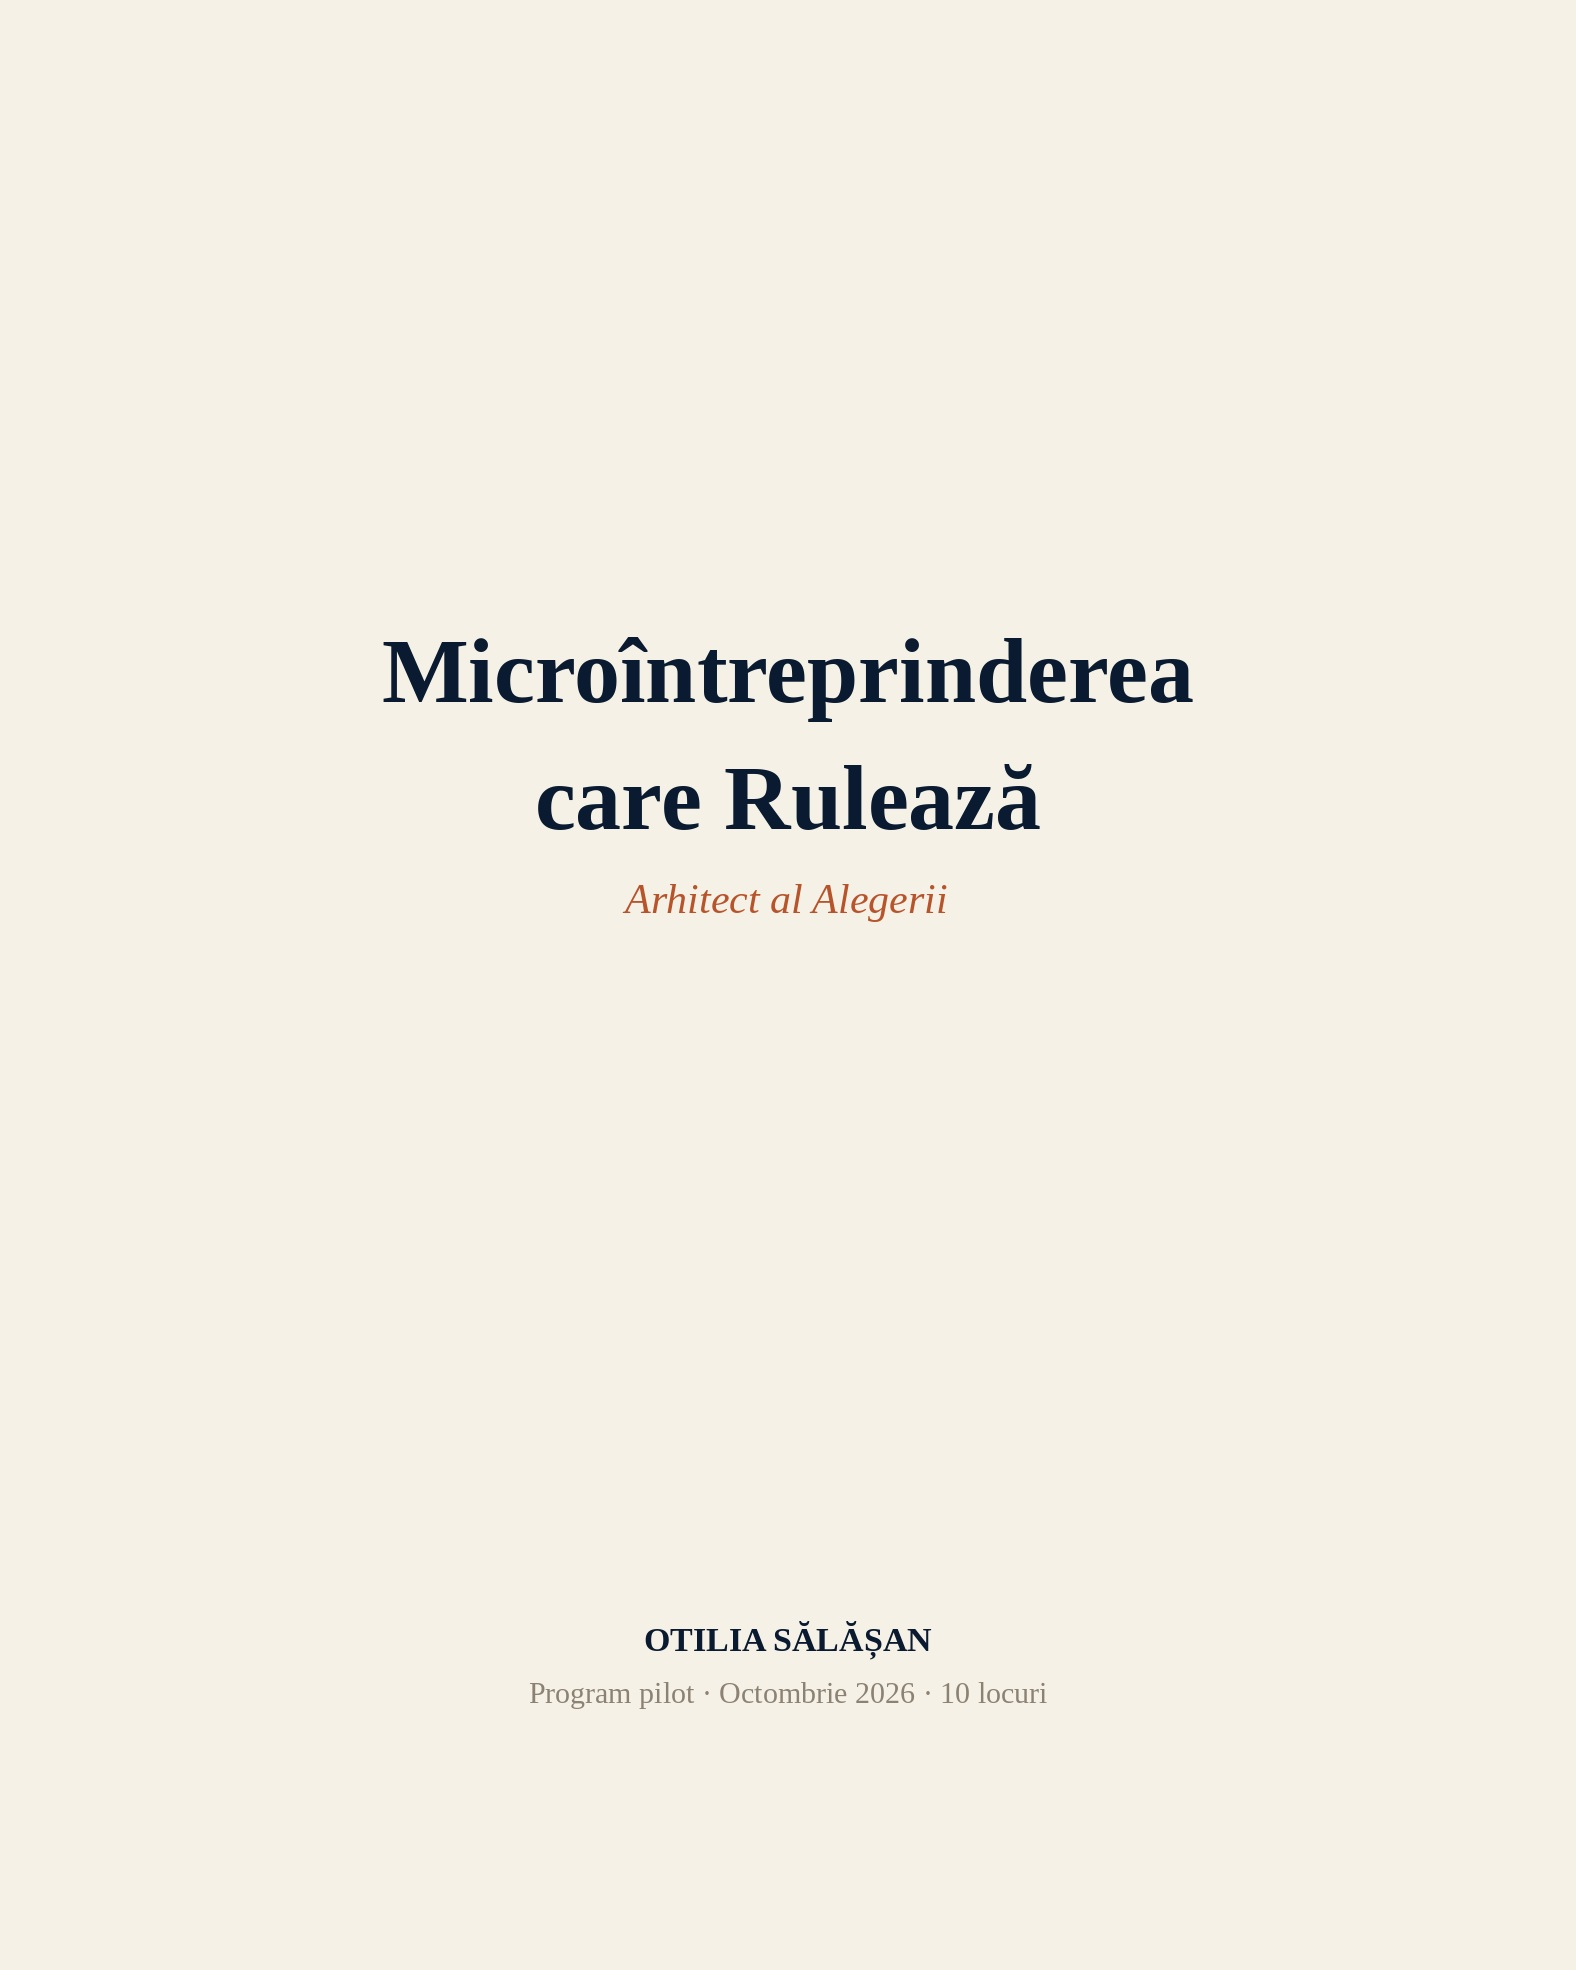
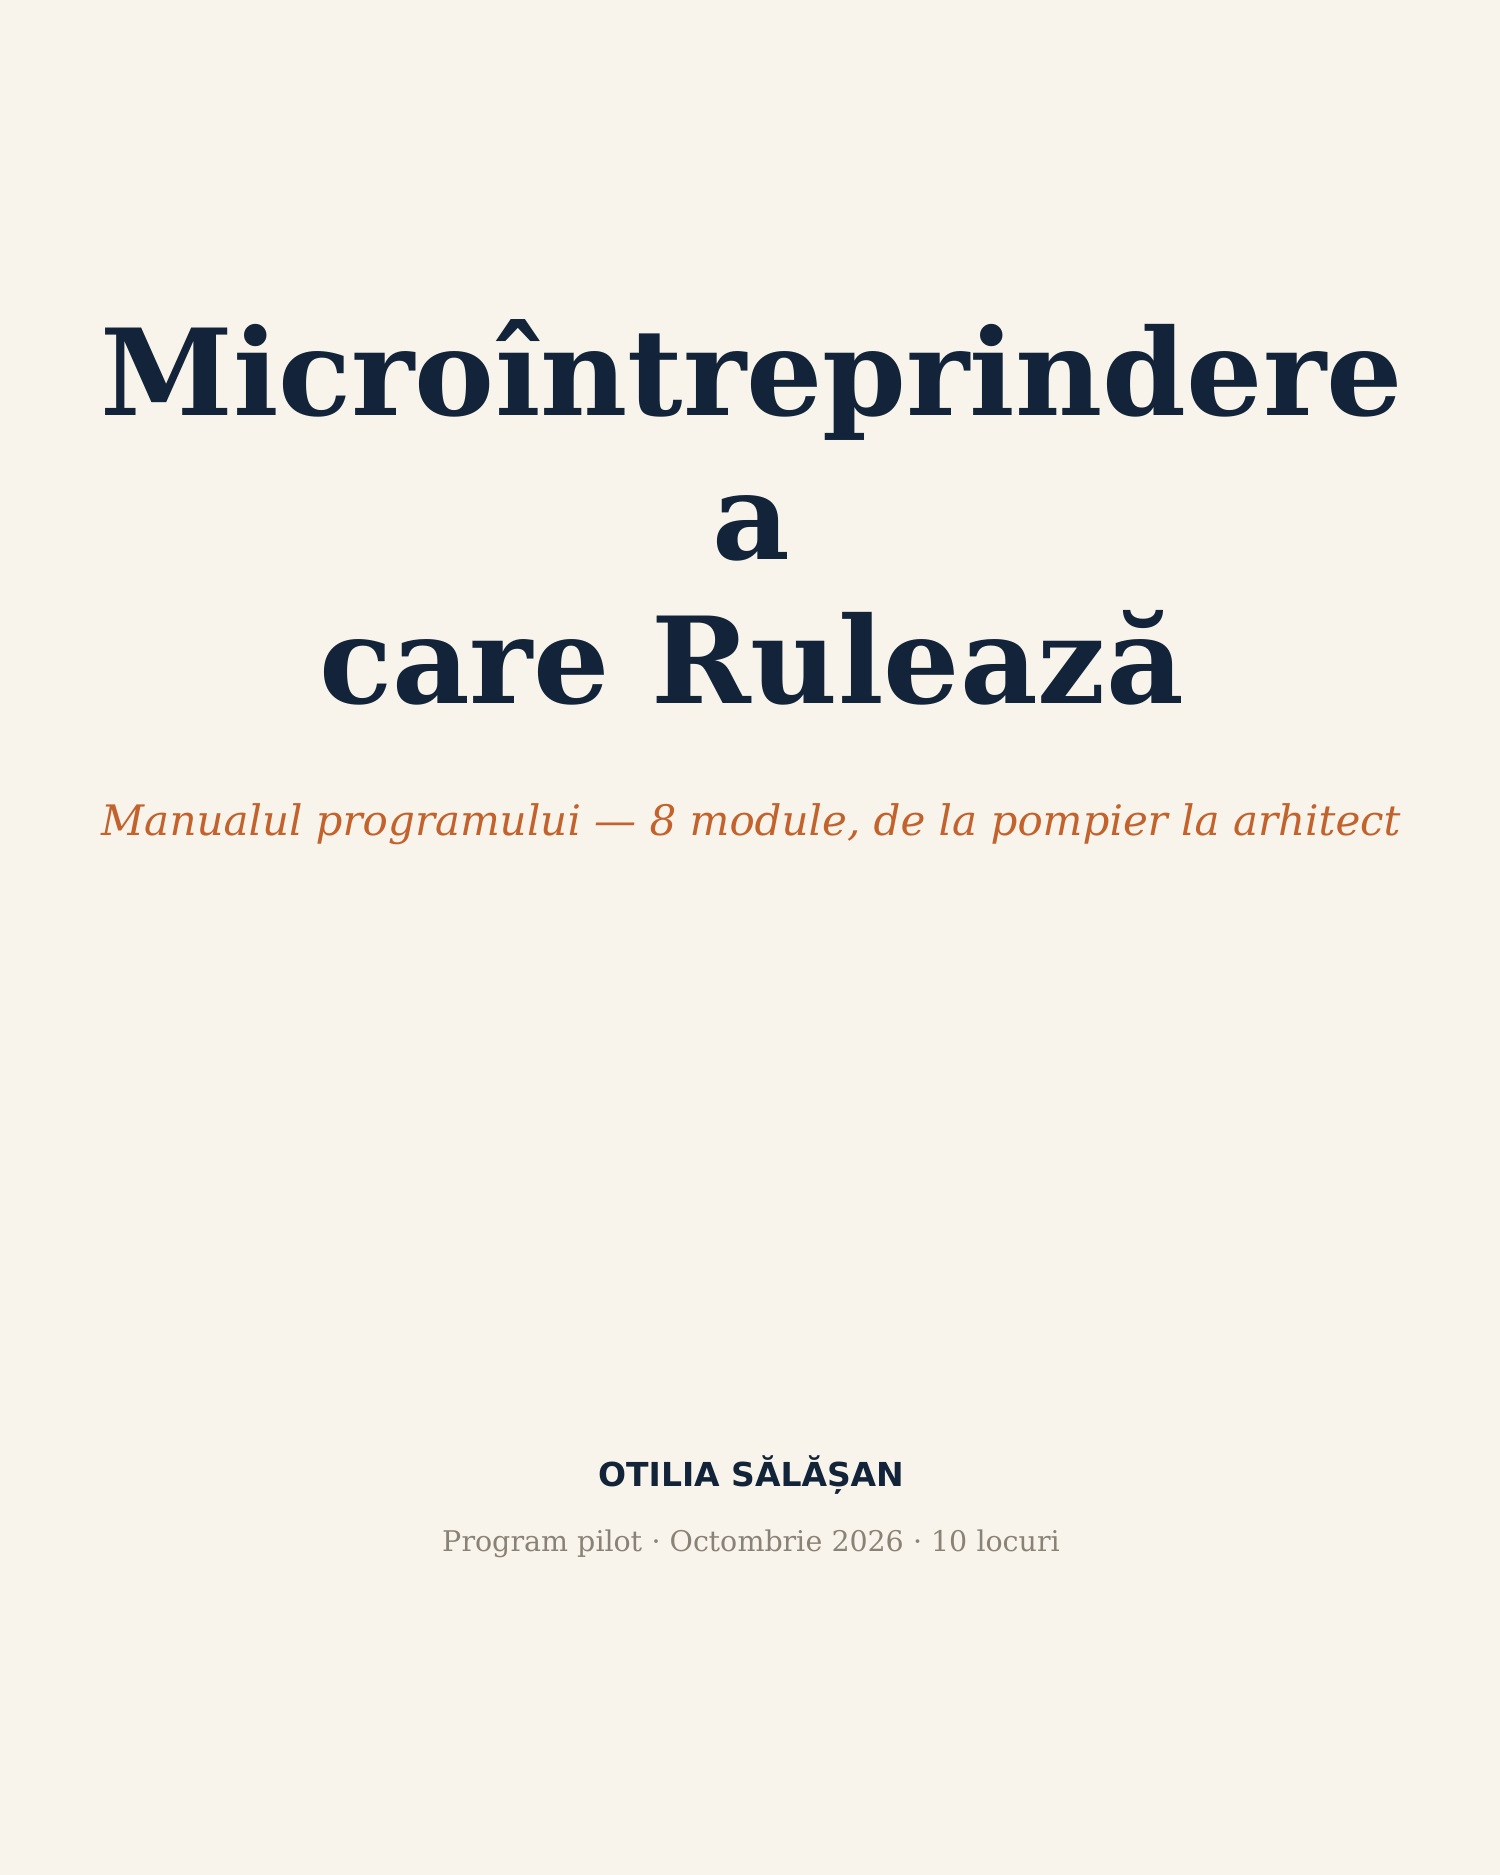
Folosește coperta reală a manualului, nu una recreată
Extrage coperta direct din PDF-ul Manualului Programului (subtitlu
corect: "Manualul programului — 8 module, de la pompier la
arhitect"), în loc de versiunea redesenată manual.

diff --git a/index.html b/index.html
@@ -121,7 +121,7 @@
     </div>
     <div class="stack">
       <div class="portrait-frame">
-        <img src="microintreprinderea-care-ruleaza-coperta.jpg" alt="Microîntreprinderea care Rulează — Arhitect al Alegerii, de Otilia Sălășan">
+        <img src="microintreprinderea-care-ruleaza-coperta.jpg" alt="Microîntreprinderea care Rulează — Manualul programului, de Otilia Sălășan">
       </div>
     </div>
   </div>
